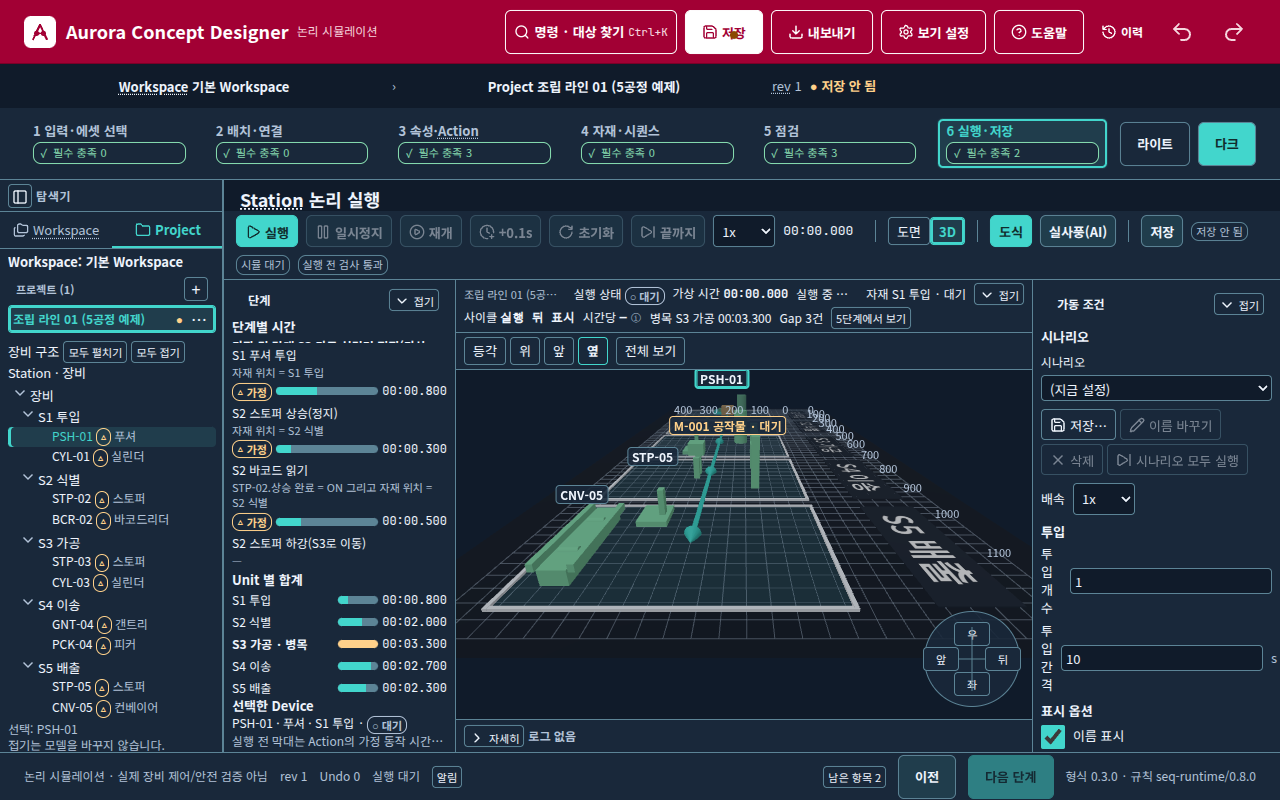
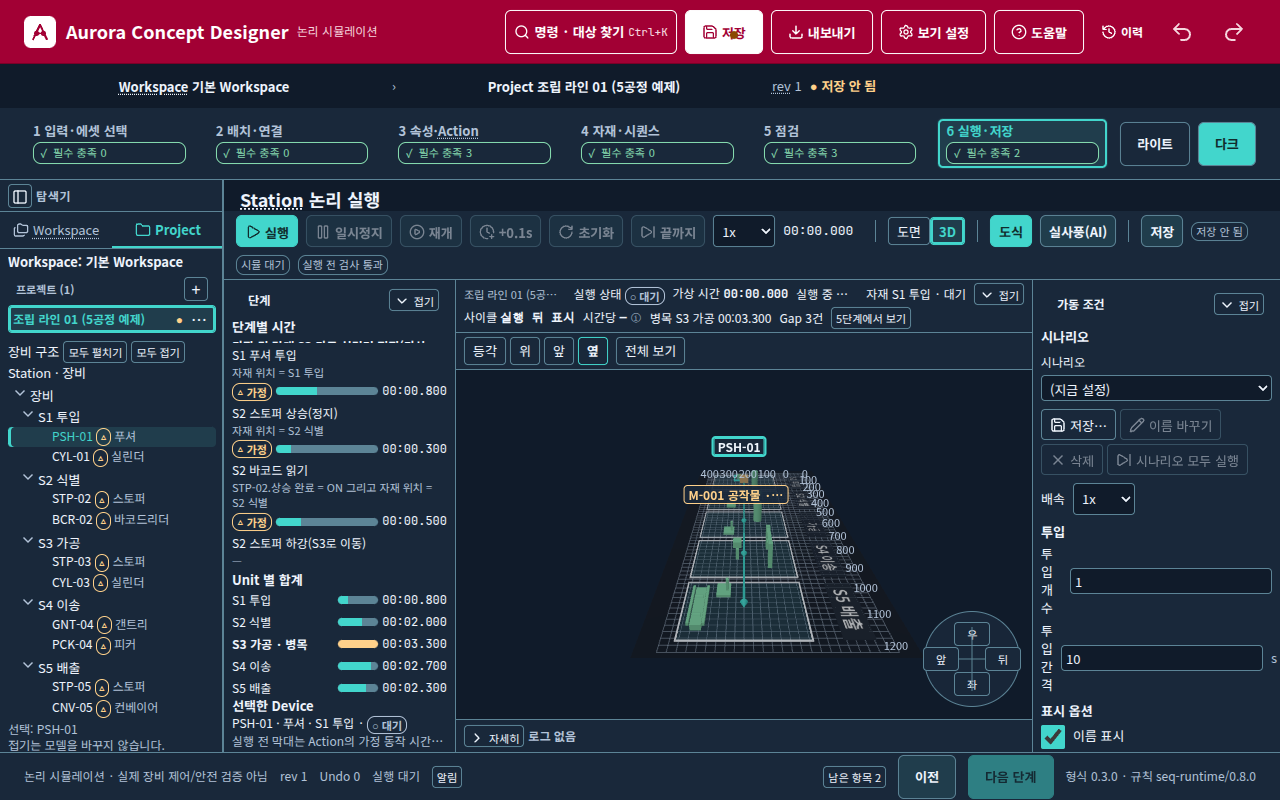
TURN-086: 정한 시점은 구역 가운데를 보고 장면 전체가 들어오게 맞춘다
위·앞 시점에서 S1 이 왼쪽으로 나가던 것은, 작은 상자라도 화면 밖으로 밀리면 더 멀리 보도록 고친 것이다.

Changed region(s): [[0.3438, 0.4688, 0.8125, 0.8125]]

diff --git a/tests/turn086.test.ts b/tests/turn086.test.ts
@@ -5,8 +5,8 @@ import {
   BoxGeometry, BufferGeometry, Float32BufferAttribute, Group, LineBasicMaterial, LineSegments,
   Mesh, MeshBasicMaterial, MeshStandardMaterial, PlaneGeometry,
 } from 'three';
-import { fitToPoints } from '../src/scene/camera';
-import { describeScene } from '../src/scene/describe';
+import { CAMERA_FOV, fitDistance, fitToPoints, projectToScreen } from '../src/scene/camera';
+import { describeScene, framePoints, zoneLookAt } from '../src/scene/describe';
 import { buildSampleProject } from '../src/model/sample';
 import { loadView } from '../src/ui/viewSettings';
 import {
@@ -39,6 +39,32 @@ describe('TURN-086 viewpoint math', () => {
     expect(compassRotationDeg(Math.PI / 2)).toBeCloseTo(270, 3);
     expect(compassRotationDeg(0.7)).not.toBe(compassRotationDeg(0));
     expect(COMPASS_POINTS.map((item) => item.label)).toEqual(['앞', '우', '뒤', '좌']);
+    const scene = describeScene(buildSampleProject(), null);
+    const look = zoneLookAt(scene);
+    const minX = Math.min(...scene.zones.map((zone) => zone.x));
+    const maxX = Math.max(...scene.zones.map((zone) => zone.x + zone.w));
+    const minZ = Math.min(...scene.zones.map((zone) => zone.z));
+    const maxZ = Math.max(...scene.zones.map((zone) => zone.z + zone.d));
+    expect(look.x).toBeCloseTo((minX + maxX) / 2);
+    expect(look.z).toBeCloseTo((minZ + maxZ) / 2);
+    const view = { width: 576, height: 360 };
+    const points = framePoints(scene);
+    for (const id of ['iso', 'top', 'front', 'side'] as const) {
+      const pose = viewpointAngles(id);
+      const cam = fitDistance({
+        targetX: look.x, targetY: look.y, targetZ: look.z,
+        yaw: pose.yaw, pitch: pose.pitch, distance: 800,
+        aspect: view.width / view.height, fov: CAMERA_FOV,
+      }, points, view);
+      for (const point of points) {
+        const at = projectToScreen(cam, point, view);
+        expect(at.ok, id).toBe(true);
+        expect(at.x, `${id} x`).toBeGreaterThanOrEqual(16);
+        expect(at.x, `${id} x`).toBeLessThanOrEqual(view.width - 16);
+        expect(at.y, `${id} y`).toBeGreaterThanOrEqual(16);
+        expect(at.y, `${id} y`).toBeLessThanOrEqual(view.height - 16);
+      }
+    }
     expect(viewpointAngles('top').yaw).toBe(0);
     expect(viewpointAngles('top').pitch).toBeGreaterThan(1.45);
     expect(viewpointAngles('top').pitch).toBeLessThan(Math.PI / 2);

diff --git a/src/ui/Scene3D.tsx b/src/ui/Scene3D.tsx
@@ -4,8 +4,8 @@ import {
   Float32BufferAttribute, Fog, Group, LineBasicMaterial, LineSegments, Mesh, MeshBasicMaterial, MeshStandardMaterial, PerspectiveCamera, PlaneGeometry, Raycaster,
   NoToneMapping, RepeatWrapping, Scene, SRGBColorSpace, Vector2, Vector3, WebGLRenderer, type Material, type Object3D,
 } from 'three';
-import { applyCameraKey, fitDistance, fitToPoints, gestureMode, orbitCamera, panCamera, projectToScreen, zoomCamera, type CameraState, type Viewport } from '../scene/camera';
-import { framePoints, type PartDelta, type SceneDescription } from '../scene/describe';
+import { CAMERA_FOV, applyCameraKey, fitDistance, fitToPoints, gestureMode, orbitCamera, panCamera, projectToScreen, zoomCamera, type CameraState, type Viewport } from '../scene/camera';
+import { framePoints, zoneLookAt, type PartDelta, type SceneDescription } from '../scene/describe';
 import { shouldRedraw, prefersReducedMotion } from '../scene/motion';
 import { emWidth, floorNameAxes, floorNameYaw, type FloorName } from '../scene/floorLabel';
 import { anchorLabels, placeLabels, sceneLabelInRange, visibleFloorNames, type ScreenLabel } from '../scene/labels';
@@ -776,14 +776,16 @@ export function Scene3D({ scene, showNames, emphasize, visualMode, equipmentMoti
   viewpointRef.current = viewpoint;
   const framed = (aspect: number, view?: Viewport, pose?: { yaw: number; pitch: number }) => {
     const points = framePoints(scene);
-    const fit = fitToPoints(points, aspect, view);
-    if (!pose) return fit;
-    const iso = Math.abs(pose.yaw - fit.yaw) < 1e-6 && Math.abs(pose.pitch - fit.pitch) < 1e-6;
-    if (iso) return fit;
+    if (!pose) return fitToPoints(points, aspect, view);
     const sized = view && view.width > 40 && view.height > 40
       ? view
       : { width: Math.max(80, Math.round(400 * Math.max(0.2, aspect))), height: 400 };
-    return fitDistance({ ...fit, yaw: pose.yaw, pitch: pose.pitch }, points, sized);
+    const look = zoneLookAt(scene);
+    return fitDistance({
+      targetX: look.x, targetY: look.y, targetZ: look.z,
+      yaw: pose.yaw, pitch: pose.pitch,
+      distance: 800, aspect: sized.width / sized.height, fov: CAMERA_FOV,
+    }, points, sized);
   };
   const [cam, setCam] = useState<CameraState>(() => framed(1.4, undefined, viewpointAngles(viewpoint)));
   const viewSize = useRef({ width: 640, height: 400 });

diff --git a/src/scene/camera.ts b/src/scene/camera.ts
@@ -211,8 +211,9 @@ export function fitToPoints(
 }
 
 /**
- * Keep yaw, pitch, and the look-at point. Move `distance` so the points fill the view.
- * Used when a preset angle would make the iso fit loop back away.
+ * Keep yaw, pitch, and the look-at point. Pull `distance` in until the points
+ * still sit inside the frame on both axes. A box that is small but off to one
+ * side does not count as fitting.
  */
 export function fitDistance(cam: CameraState, points: { x: number; y: number; z: number }[], viewport?: Viewport): CameraState {
   const view = viewport && viewport.width > 40 && viewport.height > 40
@@ -224,13 +225,14 @@ export function fitDistance(cam: CameraState, points: { x: number; y: number; z:
   const limitY = 1 - (FRAME_MARGIN * 2) / view.height;
   let lo = 30;
   let hi = 20000;
-  let best = Math.min(hi, Math.max(lo, cam.distance));
-  for (let i = 0; i < 22; i += 1) {
+  let best = hi;
+  for (let i = 0; i < 24; i += 1) {
     const mid = (lo + hi) / 2;
     const box = ndcBox({ ...cam, distance: mid, aspect }, safe);
-    if (!box) { lo = mid; continue; }
-    const scale = Math.max((box.maxX - box.minX) / (2 * limitX), (box.maxY - box.minY) / (2 * limitY));
-    if (scale > 1) lo = mid;
+    const inside = !!box
+      && box.minX >= -limitX && box.maxX <= limitX
+      && box.minY >= -limitY && box.maxY <= limitY;
+    if (!inside) lo = mid;
     else { best = mid; hi = mid; }
   }
   return { ...cam, distance: best, aspect };

diff --git a/src/scene/describe.ts b/src/scene/describe.ts
@@ -98,6 +98,29 @@ export interface SceneBounds {
   maxZ: number;
 }
 
+/** Center of every unit zone. Y is the middle of the framed scene, so a front view is not stuck on the floor. */
+export function zoneLookAt(scene: SceneDescription): { x: number; y: number; z: number } {
+  const points = framePoints(scene);
+  const ys = points.length ? points : [{ x: 0, y: 0, z: 0 }];
+  const minY = ys.reduce((m, p) => Math.min(m, p.y), 0);
+  const maxY = ys.reduce((m, p) => Math.max(m, p.y), 0);
+  if (!scene.zones.length) {
+    const b = scene.bounds;
+    return { x: (b.minX + b.maxX) / 2, y: (minY + maxY) / 2, z: (b.minZ + b.maxZ) / 2 };
+  }
+  let minX = Infinity;
+  let maxX = -Infinity;
+  let minZ = Infinity;
+  let maxZ = -Infinity;
+  for (const zone of scene.zones) {
+    minX = Math.min(minX, zone.x);
+    maxX = Math.max(maxX, zone.x + zone.w);
+    minZ = Math.min(minZ, zone.z);
+    maxZ = Math.max(maxZ, zone.z + zone.d);
+  }
+  return { x: (minX + maxX) / 2, y: (minY + maxY) / 2, z: (minZ + maxZ) / 2 };
+}
+
 /** Unit corners on the floor and the top face of every device. These are what 「전체 보기」 must keep on screen. */
 export function framePoints(scene: SceneDescription): { x: number; y: number; z: number }[] {
   const pts: { x: number; y: number; z: number }[] = [];

diff --git a/docs/turns/TURN-086.md b/docs/turns/TURN-086.md
@@ -7,6 +7,7 @@
 - 3D 장면 위에 시점 단추 등각 · 위 · 앞 · 옆을 두었다. 키보드 1~4도 같은 시점이다. 옮기는 시간은 `--dur-3`(320ms)이고, 「움직임 줄이기」면 한 번에 도착한다. 「전체 보기」와 Home 은 지금처럼 등각으로 맞춘다.
 - 시점 줄은 단추 높이 28px 가 들어가게 두고, 장면은 그 아래에서 시작한다. 1280×800 에서 단추 아래쪽이 캔버스에 가리지 않고, 문서 스크롤은 0 이다.
 - 「위」는 도면과 같은 방향이다. yaw 0, pitch 1.5(거의 수직, 바로 위는 아님 — 시선 축이 무너지지 않게).
+- 정한 시점은 모든 Unit 구역의 가운데를 본다. 거리는 구역 · 바닥 이름 · 장치 윗면이 가로 · 세로 여백 안에 들어올 때까지 벌린다. 가운데 칸이 약 576px 인 1280×800 에서도 S1 이 왼쪽으로 나가지 않는다.
 - 구석의 방향 표시는 카메라 yaw 를 따라 돈다. 앞 · 뒤 · 좌 · 우를 누르면 그 방향으로 간다. 위쪽에 온 글자가 지금 보는 쪽이다.
 - 바닥 격자는 도면 점 간격과 같은 20mm 다. mm 숫자는 가까운 두 변에만 둔다. 「가동 조건」의 「바닥 격자」로 끄고, 켜짐은 UserView 에 남는다. 시점 id 도 같이 남는다. 프로젝트 파일에는 쓰지 않는다.
 - 장치 아래 그림자는 평면에 한 장으로 그린다. 실시간 그림자 맵은 켜지 않는다. 도식과 실사풍 둘 다 같은 접지 그림자를 쓴다.
@@ -44,4 +45,5 @@ Headless Chrome. 기기 픽셀 배율 1. 콘솔 오류 0. `scrollWidth` 1280, `s
 - 접지 그림자는 부드러운 얼룩이 아니라 장치 발 밑의 반투명 평면이다. 도식에서는 실사풍보다 옅게 보인다.
 - 「전체 보기」는 이번 장면만 등각으로 맞추고, 기억된 시점 id 는 지우지 않는다. 다음에 3D 를 열면 마지막 시점 단추가 다시 적용된다.
 - 검토에서 잘리던 시점 단추는 줄을 높여 고쳤다. 「위」는 yaw 0 · pitch 1.5 로 바꿨다.
+- 「위」 · 「앞」에서 S1 이 왼쪽으로 나가던 것은, 바라보는 점을 구역 가운데로 두고 양쪽 축이 다 들어오게 거리를 맞춰 고쳤다.
 - 옆 · 왼쪽 시점은 등각 맞춤 루프가 거리를 너무 밀어 장면이 작아져서, 같은 바라보는 점을 유지한 채 거리만 다시 맞춘다.
